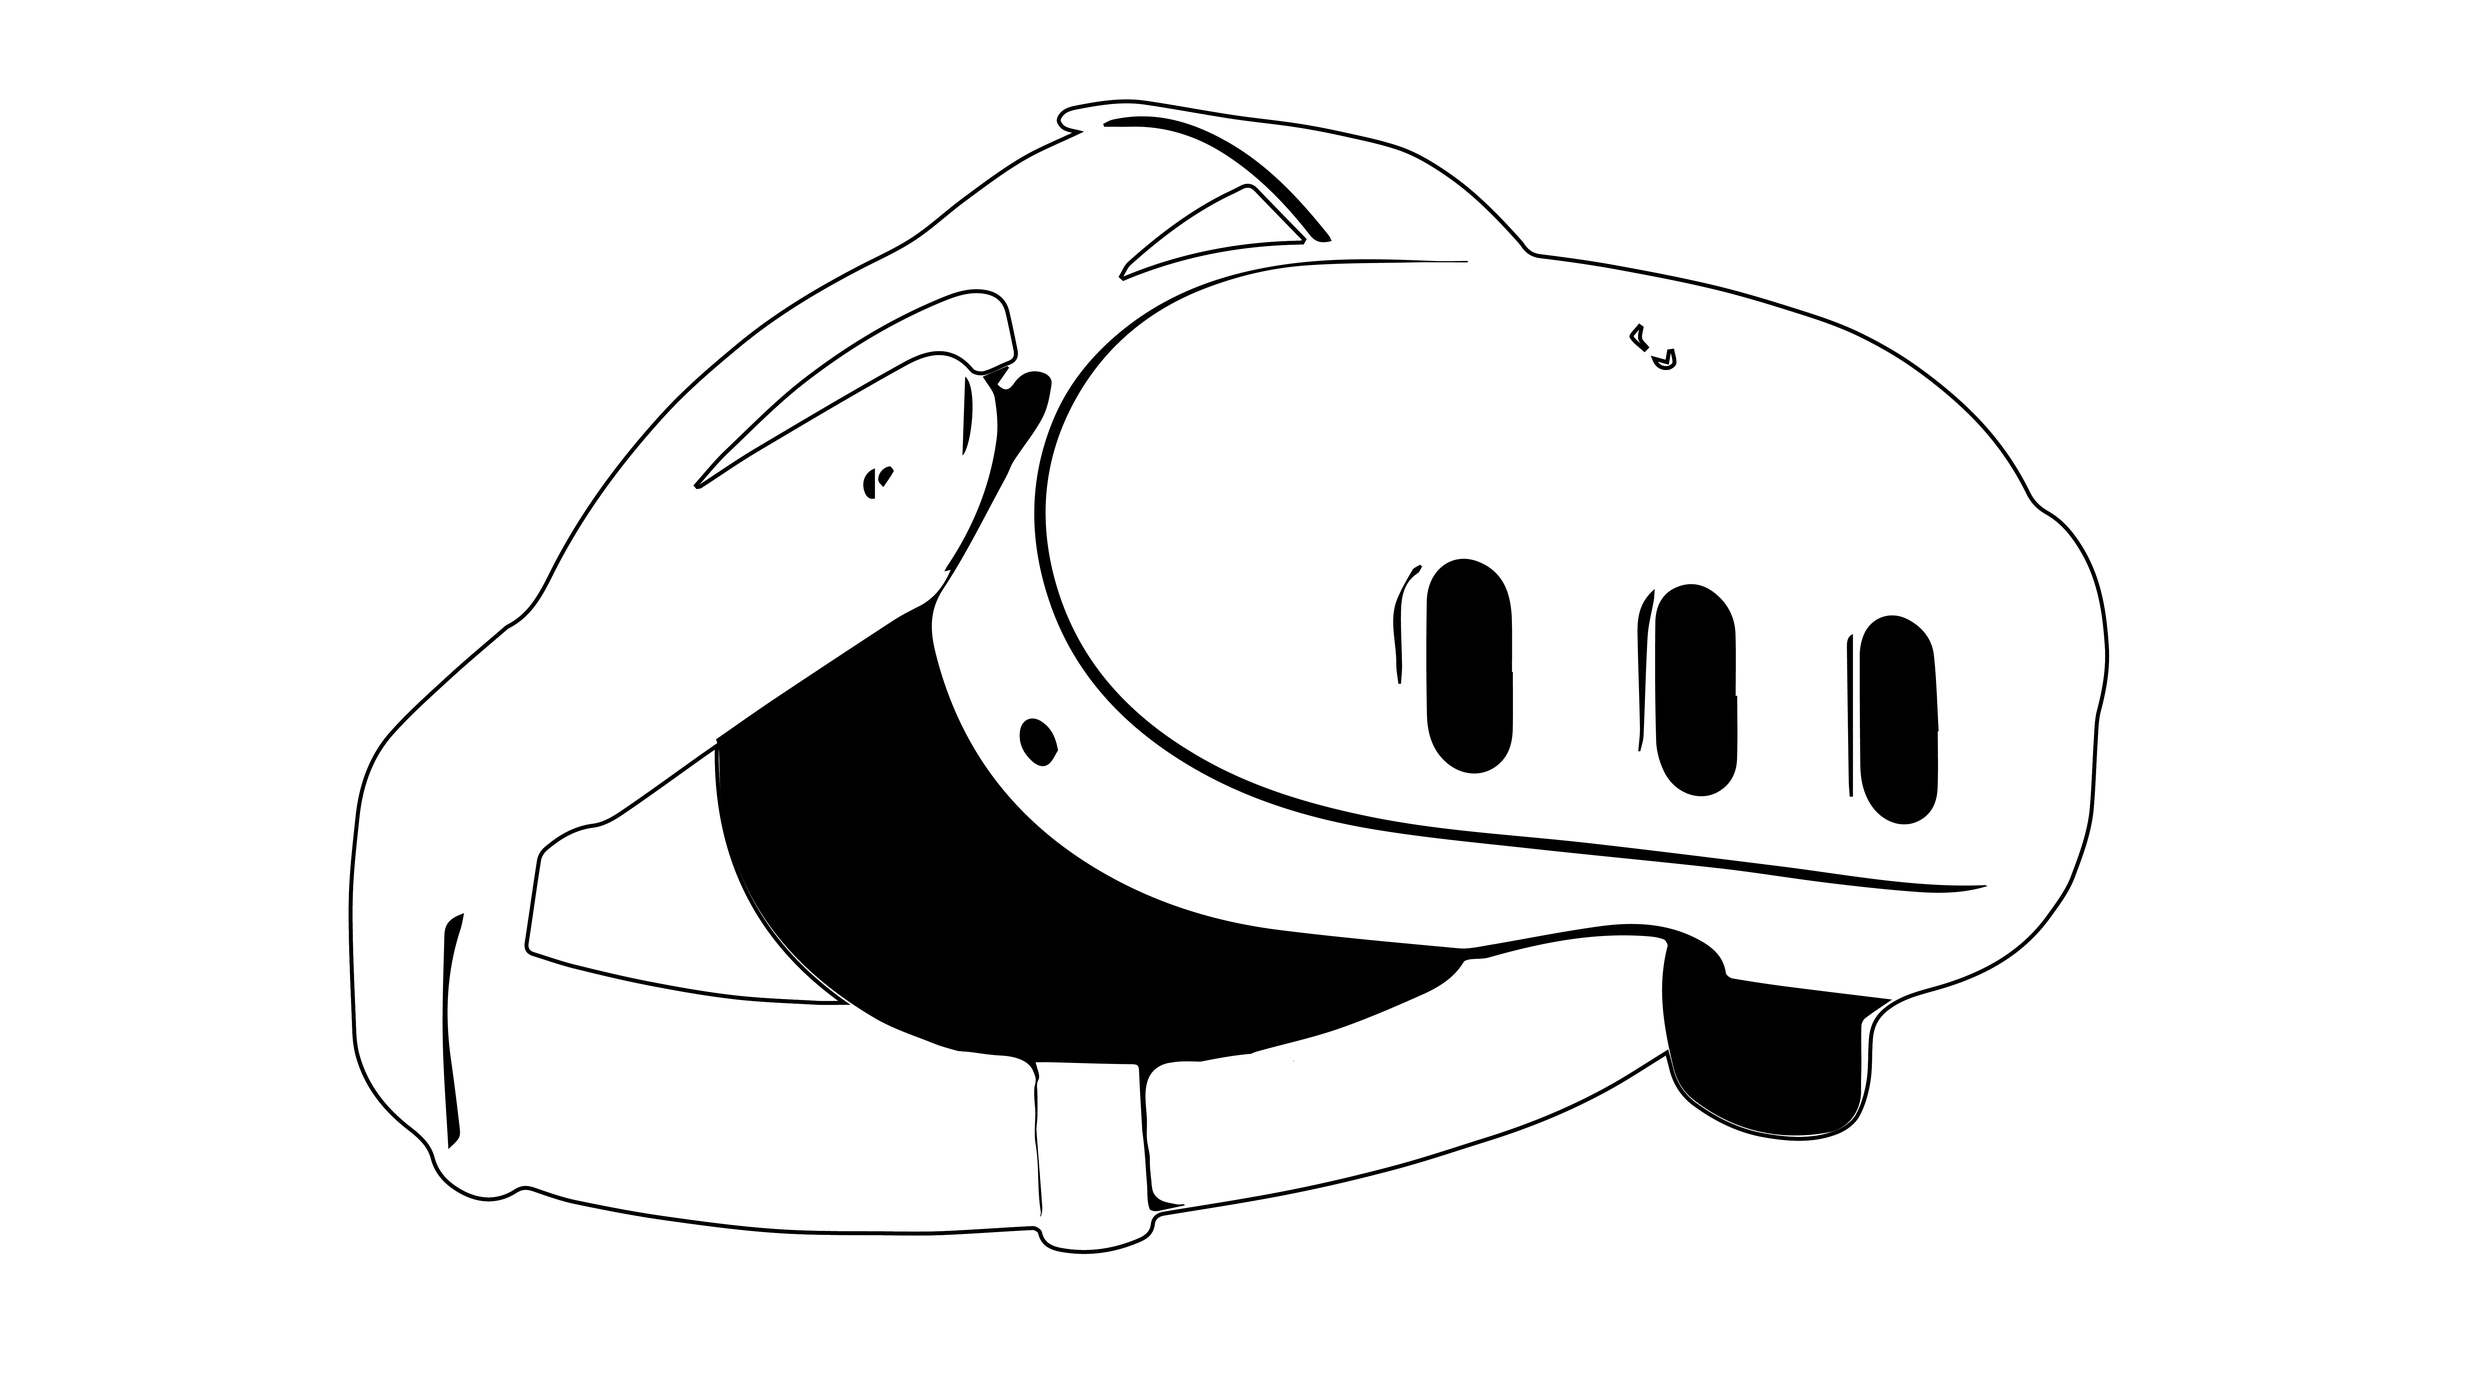
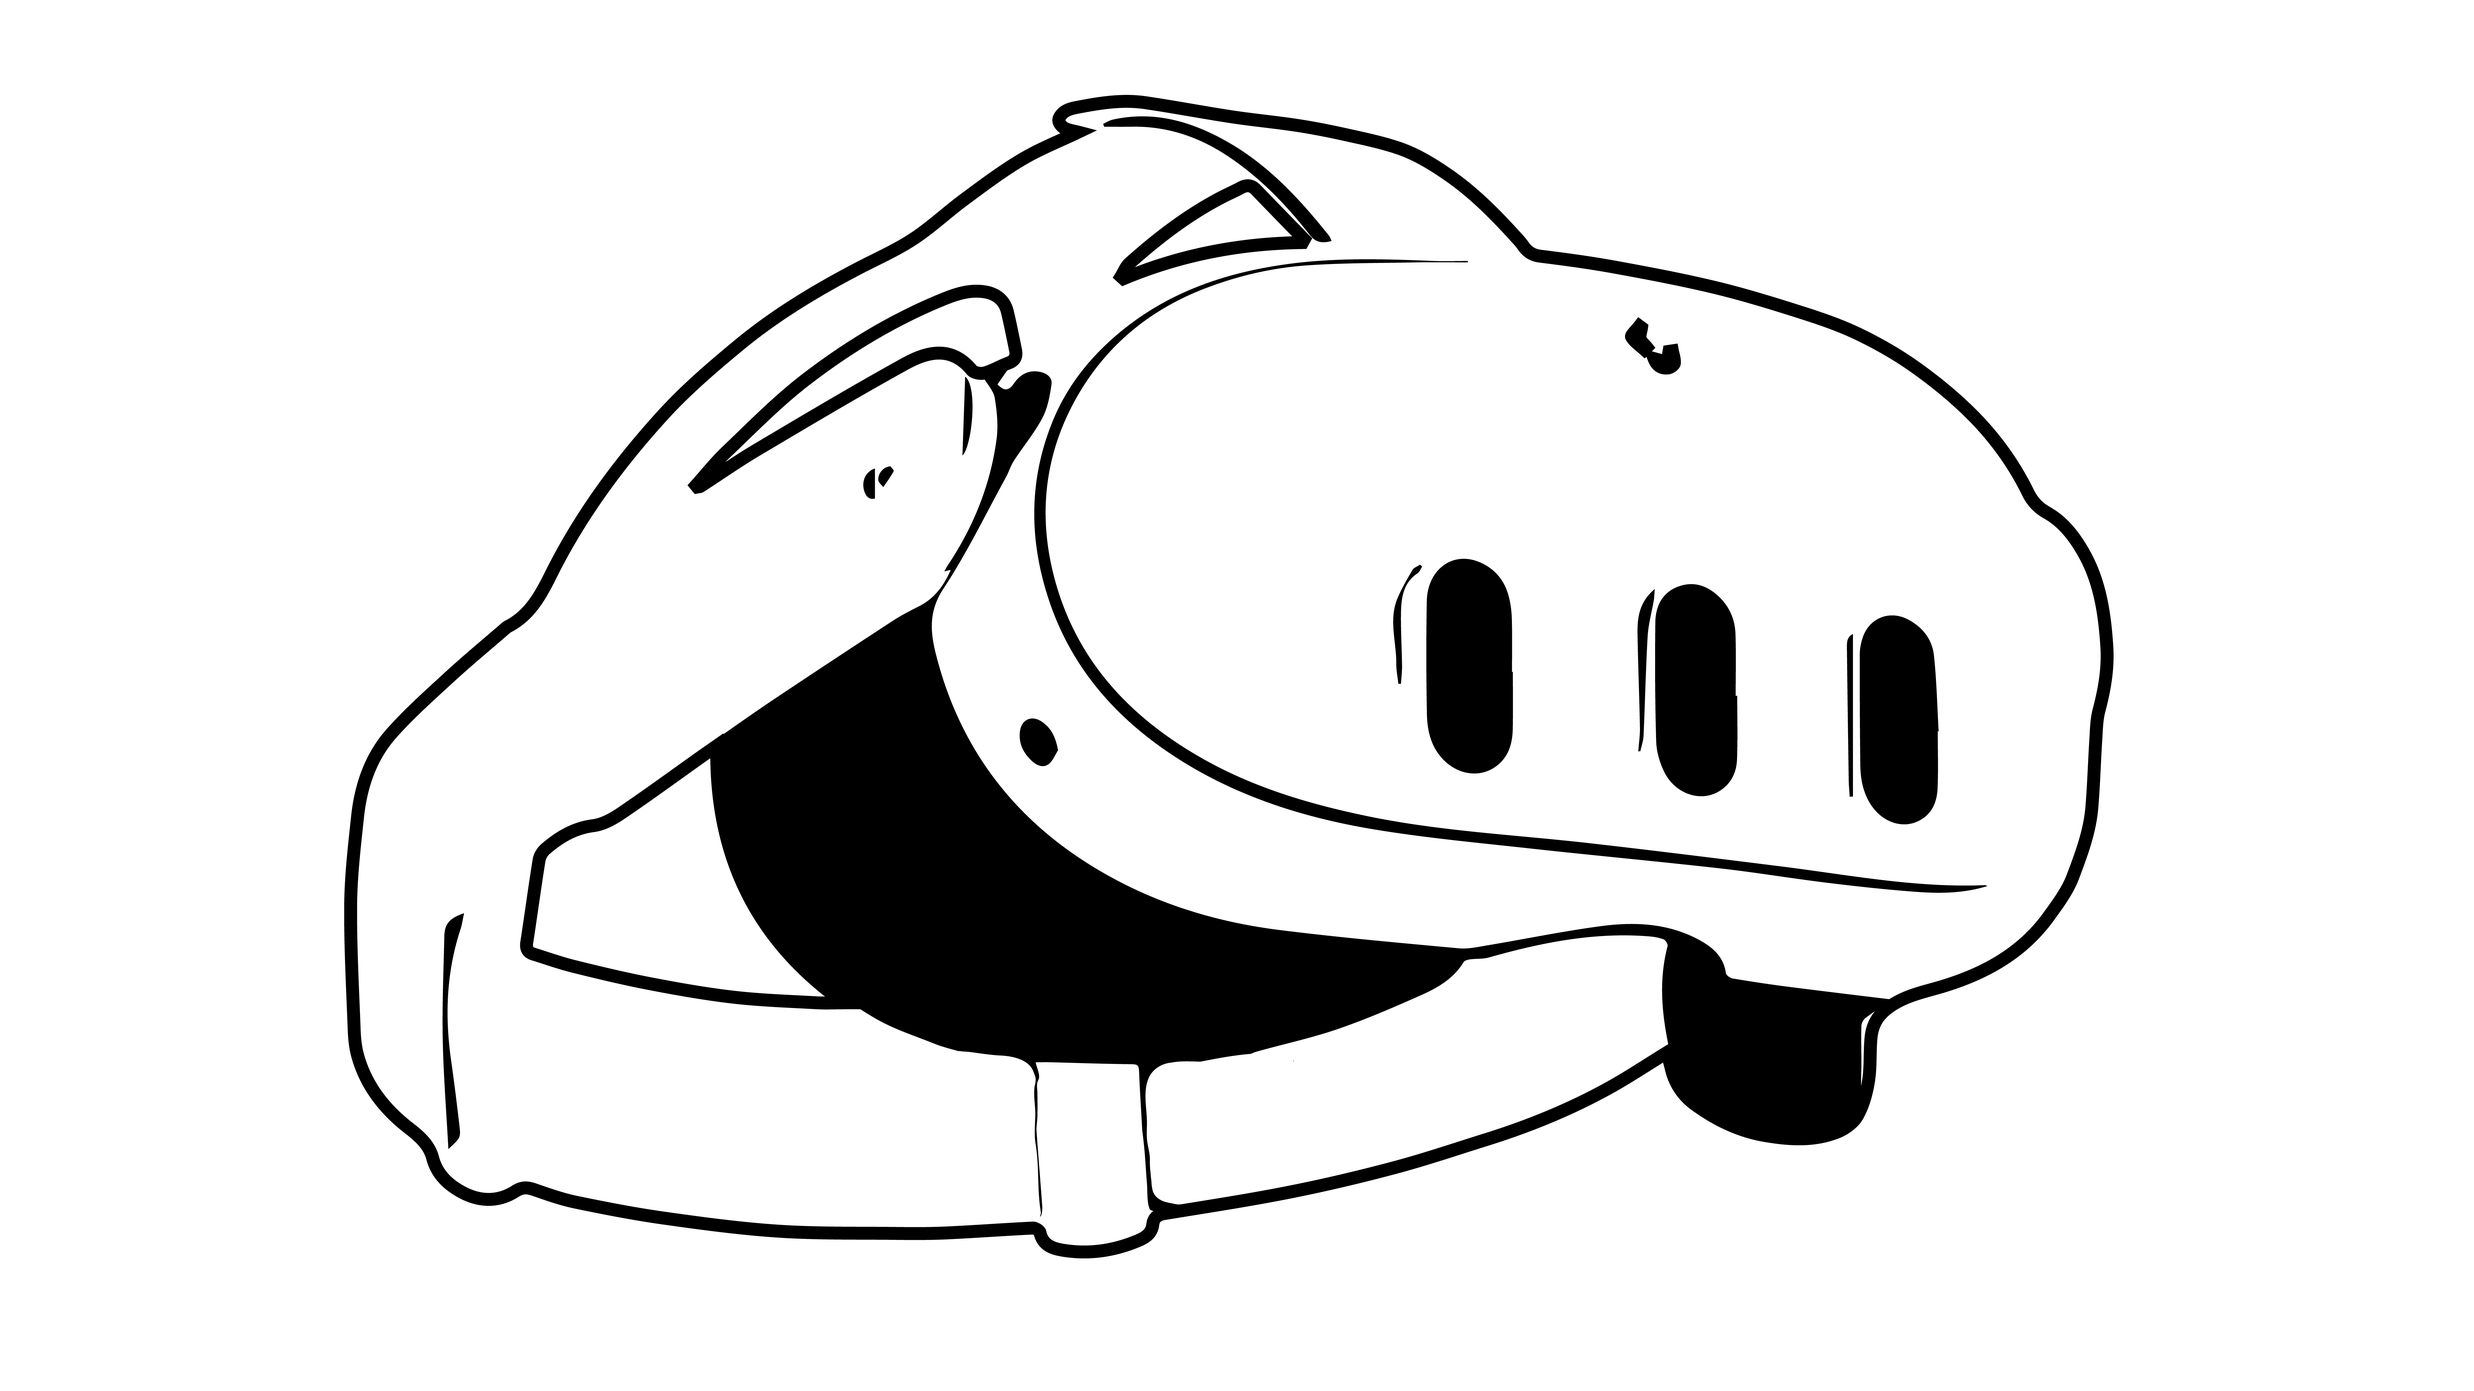
add

diff --git a/src/level_2.ts b/src/level_2.ts
@@ -21,10 +21,14 @@ export default class Level_2 {
   raycaster: THREE.Raycaster;
   interactableObj: any[] = [];
   mouse: THREE.Vector2;
-  ambientLight: THREE.AmbientLight;
-  pointLight: THREE.PointLight;
+
+  //light
+  ambientLight = new THREE.AmbientLight(0xffffff, 2);
+  pointLight = new THREE.PointLight(0xffffff, 50);
+  //Make a pivot
+  pivot = new THREE.Object3D();
+
   textMesh = new THREE.Mesh();
-  cube = new THREE.Mesh();
   universalController_parent = new THREE.Mesh();
   universalController_1_1 = new THREE.Mesh();
   universalController_1_2 = new THREE.Mesh();
@@ -55,9 +59,6 @@ export default class Level_2 {
     this.renderer = renderer;
     this.raycaster = raycaster;
     this.mouse = mouse;
-    //light
-    this.ambientLight = new THREE.AmbientLight(0xffffff, 2);
-    this.pointLight = new THREE.PointLight(0xffffff, 50);
     this.scene.background = new THREE.Color(0x654321);
 
     //post processing
@@ -149,19 +150,20 @@ export default class Level_2 {
 
     // Create the sprite
     const sprite = new THREE.Sprite(spriteMaterial);
-    sprite.position.set(0, 1.65, 0);
+    sprite.position.set(0, 1.65, -2);
     sprite.scale.set(2.2, 1.25, 1);
     // Add the sprite to your scene, etc.
     this.scene.add(sprite);
   }
 
   createLight() {
-    const light = new THREE.PointLight(0xffffff, 500);
-    light.position.set(10, 10, 10);
-    this.scene.add(light);
+    this.pointLight = new THREE.PointLight(0xffffff, 500);
+    this.pivot.position.set(10, 10, 10);
+    this.pivot.add(this.pointLight);
+    this.scene.add(this.pivot);
 
-    const ambientLight = new THREE.AmbientLight(0xffffff, 3);
-    this.scene.add(ambientLight);
+    this.ambientLight = new THREE.AmbientLight(0xffffff, 2);
+    this.scene.add(this.ambientLight);
   }
 
   //outline as a postprocessing
@@ -232,63 +234,39 @@ export default class Level_2 {
       material_2.map = this.controller_1_2_texture;
       this.universalController_1_2.material = material_2;
 
-      //this.scene.add(this.universalController_1_1);
-      //this.scene.add(this.universalController_1_2);
+      // let geo_1 = new THREE.EdgesGeometry(this.universalController_1_1.geometry);
+      // const edgesMaterial_1 = new THREE.LineBasicMaterial({ color: 0x000000, linewidth: 10 });
+      // this.universalController_wire_1_1 = new THREE.LineSegments(geo_1, edgesMaterial_1);
+      // material_1.colorWrite = false;
+      // material_1.polygonOffset = true;
+      // material_1.polygonOffsetFactor = 1;
+      // material_1.polygonOffsetUnits = 1;
 
-      let geo_1 = new THREE.EdgesGeometry(this.universalController_1_1.geometry);
-      const edgesMaterial_1 = new THREE.LineBasicMaterial({ color: 0x000000, linewidth: 10 });
-      this.universalController_wire_1_1 = new THREE.LineSegments(geo_1, edgesMaterial_1);
-      material_1.colorWrite = false;
-      material_1.polygonOffset = true;
-      material_1.polygonOffsetFactor = 1;
-      material_1.polygonOffsetUnits = 1;
-      //this.scene.add(this.universalController_wire_1_1);
+      // let geo_2 = new THREE.EdgesGeometry(this.universalController_1_2.geometry);
+      // const edgesMaterial_2 = new THREE.LineBasicMaterial({ color: 0x000000, linewidth: 10 });
+      // this.universalController_wire_1_2 = new THREE.LineSegments(geo_2, edgesMaterial_2);
+      // material_2.colorWrite = false;
+      // material_2.polygonOffset = true;
+      // material_2.polygonOffsetFactor = 1;
+      // material_2.polygonOffsetUnits = 1;
 
-      let geo_2 = new THREE.EdgesGeometry(this.universalController_1_2.geometry);
-      const edgesMaterial_2 = new THREE.LineBasicMaterial({ color: 0x000000, linewidth: 10 });
-      this.universalController_wire_1_2 = new THREE.LineSegments(geo_2, edgesMaterial_2);
-      material_2.colorWrite = false;
-      material_2.polygonOffset = true;
-      material_2.polygonOffsetFactor = 1;
-      material_2.polygonOffsetUnits = 1;
-      //this.scene.add(this.universalController_wire_1_2);
+      // this.interactableObj.push(this.universalController_1_1);
+      // this.interactableObj.push(this.universalController_1_2);
 
-      this.interactableObj.push(this.universalController_1_1);
-      this.interactableObj.push(this.universalController_1_2);
-      //this.interactableObj.push(this.universalController_wire_1_1);
-      //this.interactableObj.push(this.universalController_wire_1_2);
-      //this.outlinePass.selectedObjects.push( this.interactableObj[0]);
-      //this.outlinePass.selectedObjects.push( this.interactableObj[1]);
-      //this.solidify(this.universalController_1_1);
-      //this.solidify(this.universalController_1_2);
       const button = new Button(
         this.scene,
         this.universalController_1_2.geometry,
         new THREE.MeshToonMaterial({ color: 0xffffff }),
         new THREE.Color(0xeeeeee),
-        this.controller_1_2_texture,
-        true
+        true,
+        true,
+        this.controller_1_2_texture
       );
 
       button.setSecondMesh(this.universalController_1_1, this.controller_1_1_texture);
-
+      this.buttons.push(button);
       console.log(button);
       // @ts-ignore
-      this.buttons.push(button);
-
-      //   const button_secondBase = new Button(
-      //     this.universalController_1_1.geometry,
-      //     new THREE.MeshToonMaterial({ color: 0xffffff }),
-      //     new THREE.Color(0xeeeeee),
-      //     this.controller_1_1_texture
-      //   );
-      //   button_secondBase.setScale(1, 1, 1);
-      //   console.log(button_secondBase);
-      //   // @ts-ignore
-      //   this.buttons.push(button_secondBase);
-      //   this.scene.add(button_secondBase);
-      //   this.scene.add(button_secondBase.wireframe);
-      //   this.scene.add(button_secondBase.outlineObject);
     });
   }
 
@@ -312,6 +290,7 @@ export default class Level_2 {
       }
     });
   }
+
   createTextMesh() {
     let textScale = 0.1;
     let textOffset = 3;
@@ -319,6 +298,7 @@ export default class Level_2 {
     let textMesh = this.textMesh;
     let activeScene = this.scene;
     let outlinePass = this.outlinePass;
+    let buttons = this.buttons;
     const loader = new FontLoader();
     loader.load("fonts/Play_Regular.json", function (font) {
       textGeo = new TextGeometry("Meta Quest\n3", {
@@ -344,8 +324,17 @@ export default class Level_2 {
         textMesh.rotation.y = Math.PI * 0.1;
         textMesh.scale.set(textScale, textScale, textScale);
       }
-      activeScene.add(textMesh);
-      outlinePass.selectedObjects.push(textMesh);
+      //activeScene.add(textMesh);
+      //outlinePass.selectedObjects.push(textMesh);
+      const button = new Button(
+        activeScene,
+        textMesh.geometry,
+        new THREE.MeshToonMaterial({ color: 0xffffff }),
+        new THREE.Color(0xeeeeee),
+        false,
+        true
+      );
+      buttons.push(button);
     });
   }
   setupButtonInteractions() {

diff --git a/src/button.ts b/src/button.ts
@@ -25,13 +25,18 @@ export default class Button extends THREE.Mesh {
   wireframeSecondMesh: any;
   textureSecondMesh: any;
   materialSecondMesh = new THREE.MeshToonMaterial();
+
+  //floating
+  randomNumber = Math.floor(Math.random() * 0.25);
+  isFloating = false;
   constructor(
     scene: THREE.Scene,
     geometry: THREE.BufferGeometry,
     material: THREE.MeshToonMaterial,
     colorTo: THREE.Color,
-    texture = THREE.Texture.DEFAULT_IMAGE,
     hasTwoMeshes: boolean,
+    isFloating = false,
+    texture = THREE.Texture.DEFAULT_IMAGE
   ) {
     super();
     this.scene = scene;
@@ -52,47 +57,49 @@ export default class Button extends THREE.Mesh {
     this.material.polygonOffsetFactor = 1;
     this.material.polygonOffsetUnits = 1;
 
-   
-
     //
     this.setScale(1, 1, 1);
     this.scene.add(this);
-    this.hasTwoMeshes = hasTwoMeshes; 
-    if(hasTwoMeshes){
+    this.hasTwoMeshes = hasTwoMeshes;
+    if (hasTwoMeshes) {
       //outline object
-     this.outlineObject = this.solidify(this);
-     this.scene.add(this.outlineObject);
-    }
-    else{
+      this.outlineObject = this.solidify(this);
+      this.scene.add(this.outlineObject);
+    } else {
       //outline post processing
       this.scene.add(this.wireframe);
     }
 
+    this.isFloating = isFloating;
+    this.setRandomNumber();
   }
 
-  setSecondMesh(secondMesh: THREE.Mesh, texture = THREE.Texture.DEFAULT_IMAGE){
-    this.secondMesh = secondMesh;  
+  setRandomNumber() {
+    //for floating
+    this.randomNumber = Math.floor(Math.random() * 0.15);
+  }
+
+  setSecondMesh(secondMesh: THREE.Mesh, texture = THREE.Texture.DEFAULT_IMAGE) {
+    this.secondMesh = secondMesh;
     this.add(secondMesh);
 
-        //line object
-        var geo = new THREE.EdgesGeometry(this.secondMesh.geometry); 
-        const edgesMaterial = new THREE.LineBasicMaterial({ color: 0x000000, linewidth: 100 });
-        this.wireframe = new THREE.LineSegments(geo, edgesMaterial);
-        this.scene.add(this.wireframe);
+    //line object
+    var geo = new THREE.EdgesGeometry(this.secondMesh.geometry);
+    const edgesMaterial = new THREE.LineBasicMaterial({ color: 0x000000, linewidth: 100 });
+    this.wireframe = new THREE.LineSegments(geo, edgesMaterial);
+    this.scene.add(this.wireframe);
 
+    // second mesh material
+    this.materialSecondMesh.map = texture;
+    this.materialSecondMesh.colorWrite = true;
+    this.materialSecondMesh.polygonOffset = true;
+    this.materialSecondMesh.polygonOffsetFactor = 1;
+    this.materialSecondMesh.polygonOffsetUnits = 1;
 
-        // second mesh material
-        this.materialSecondMesh.map = texture;
-        this.materialSecondMesh.colorWrite = true;
-        this.materialSecondMesh.polygonOffset = true;
-        this.materialSecondMesh.polygonOffsetFactor = 1;
-        this.materialSecondMesh.polygonOffsetUnits = 1;
-    
-        this.secondMesh.material = this.materialSecondMesh;
-        //outline object
-        this.secondOutlineObject = this.solidify(secondMesh);
-        this.scene.add(this.secondOutlineObject);
-
+    this.secondMesh.material = this.materialSecondMesh;
+    //outline object
+    this.secondOutlineObject = this.solidify(secondMesh);
+    this.scene.add(this.secondOutlineObject);
   }
 
   lerp(from: number, to: number, speed: number) {
@@ -111,37 +118,37 @@ export default class Button extends THREE.Mesh {
   }
 
   //outline as a mesh
-    solidify = (mesh: THREE.Mesh) => {
-      const THICKNESS = 0.015;
-      const geometry = mesh.geometry;
-      this.outlineMaterial = new THREE.ShaderMaterial({
-        vertexShader: /* glsl */ `
+  solidify = (mesh: THREE.Mesh) => {
+    const THICKNESS = 0.01;
+    const geometry = mesh.geometry;
+    this.outlineMaterial = new THREE.ShaderMaterial({
+      vertexShader: /* glsl */ `
             void main() { 
               vec3 newPosition = position + normal  * ${THICKNESS};
               gl_Position = projectionMatrix * modelViewMatrix * vec4(newPosition, 1);
             }
           `,
-        fragmentShader: /* glsl */ `
+      fragmentShader: /* glsl */ `
             void main() { 
               gl_FragColor = vec4(0,0,0,1);
             }
           `,
-  
-        side: THREE.BackSide,
-      });
 
-      return new THREE.Mesh(geometry, this.outlineMaterial);     
-    }
+      side: THREE.BackSide,
+    });
+
+    return new THREE.Mesh(geometry, this.outlineMaterial);
+  };
+
   update(delta: number, clock: THREE.Clock) {
     this.hovered ? this.material.color.lerp(this.colorTo, delta * 10) : this.material.color.lerp(this.defaultColor, delta * 10);
     this.clicked ? this.v.set(1.25, 1.25, 1.25) : this.v.set(1.0, 1.0, 1.0);
     this.clicked ? (this.material.colorWrite = true) : (this.material.colorWrite = false);
-    if (this.hasTwoMeshes)
-    {
+    if (this.hasTwoMeshes) {
       this.clicked ? (this.wireframe.visible = false) : (this.wireframe.visible = true);
       this.clicked ? (this.materialSecondMesh.colorWrite = true) : (this.materialSecondMesh.colorWrite = false);
     }
-   
+
     this.scale.lerp(
       new THREE.Vector3(this.v.x * this.defaultScale.x, this.v.y * this.defaultScale.y, this.v.z * this.defaultScale.z),
       delta * 5
@@ -158,5 +165,23 @@ export default class Button extends THREE.Mesh {
       new THREE.Vector3(this.v.x * this.defaultScale.x, this.v.y * this.defaultScale.y, this.v.z * this.defaultScale.z),
       delta * 5
     );
+
+    if (this.isFloating) {
+      this.position.y = Math.sin(clock.getElapsedTime()) * (this.randomNumber + 0.15) + this.defaultPosition.y;
+      this.wireframe.position.y = Math.sin(clock.getElapsedTime()) * (this.randomNumber + 0.15) + this.defaultPosition.y;
+      this.outlineObject.position.y = Math.sin(clock.getElapsedTime()) * (this.randomNumber + 0.15) + this.defaultPosition.y;
+      if (this.hasTwoMeshes) {
+        this.secondOutlineObject.position.y = Math.sin(clock.getElapsedTime()) * (this.randomNumber + 0.15) + this.defaultPosition.y;
+        this.wireframeSecondMesh.position.y = Math.sin(clock.getElapsedTime()) * (this.randomNumber + 0.15) + this.defaultPosition.y;
+      }
+    } else {
+      this.position.y = this.defaultPosition.y;
+      this.wireframe.position.y = this.defaultPosition.y;
+      this.outlineObject.position.y = this.defaultPosition.y;
+      if (this.hasTwoMeshes) {
+        this.secondOutlineObject.position.y = this.defaultPosition.y;
+        this.wireframeSecondMesh.position.y = this.defaultPosition.y;
+      }
+    }
   }
 }

diff --git a/src/level_1.ts b/src/level_1.ts
@@ -183,8 +183,9 @@ export default class Level_1 {
         buttonMesh.geometry,
         new THREE.MeshToonMaterial({ color: 0xffffff }),
         new THREE.Color(0xeeeeee),
-        platformTexture,
-        false
+        false,
+        false,
+        platformTexture
       );
       button.setScale(1, 1, 1);
       // @ts-ignore
@@ -345,5 +346,13 @@ export default class Level_1 {
     });
 
     this.mixer.update(delta);
+  }
+
+  removeAllObjects(){
+
+  }
+
+  deactivateAllTexts(){
+
   }
 }
